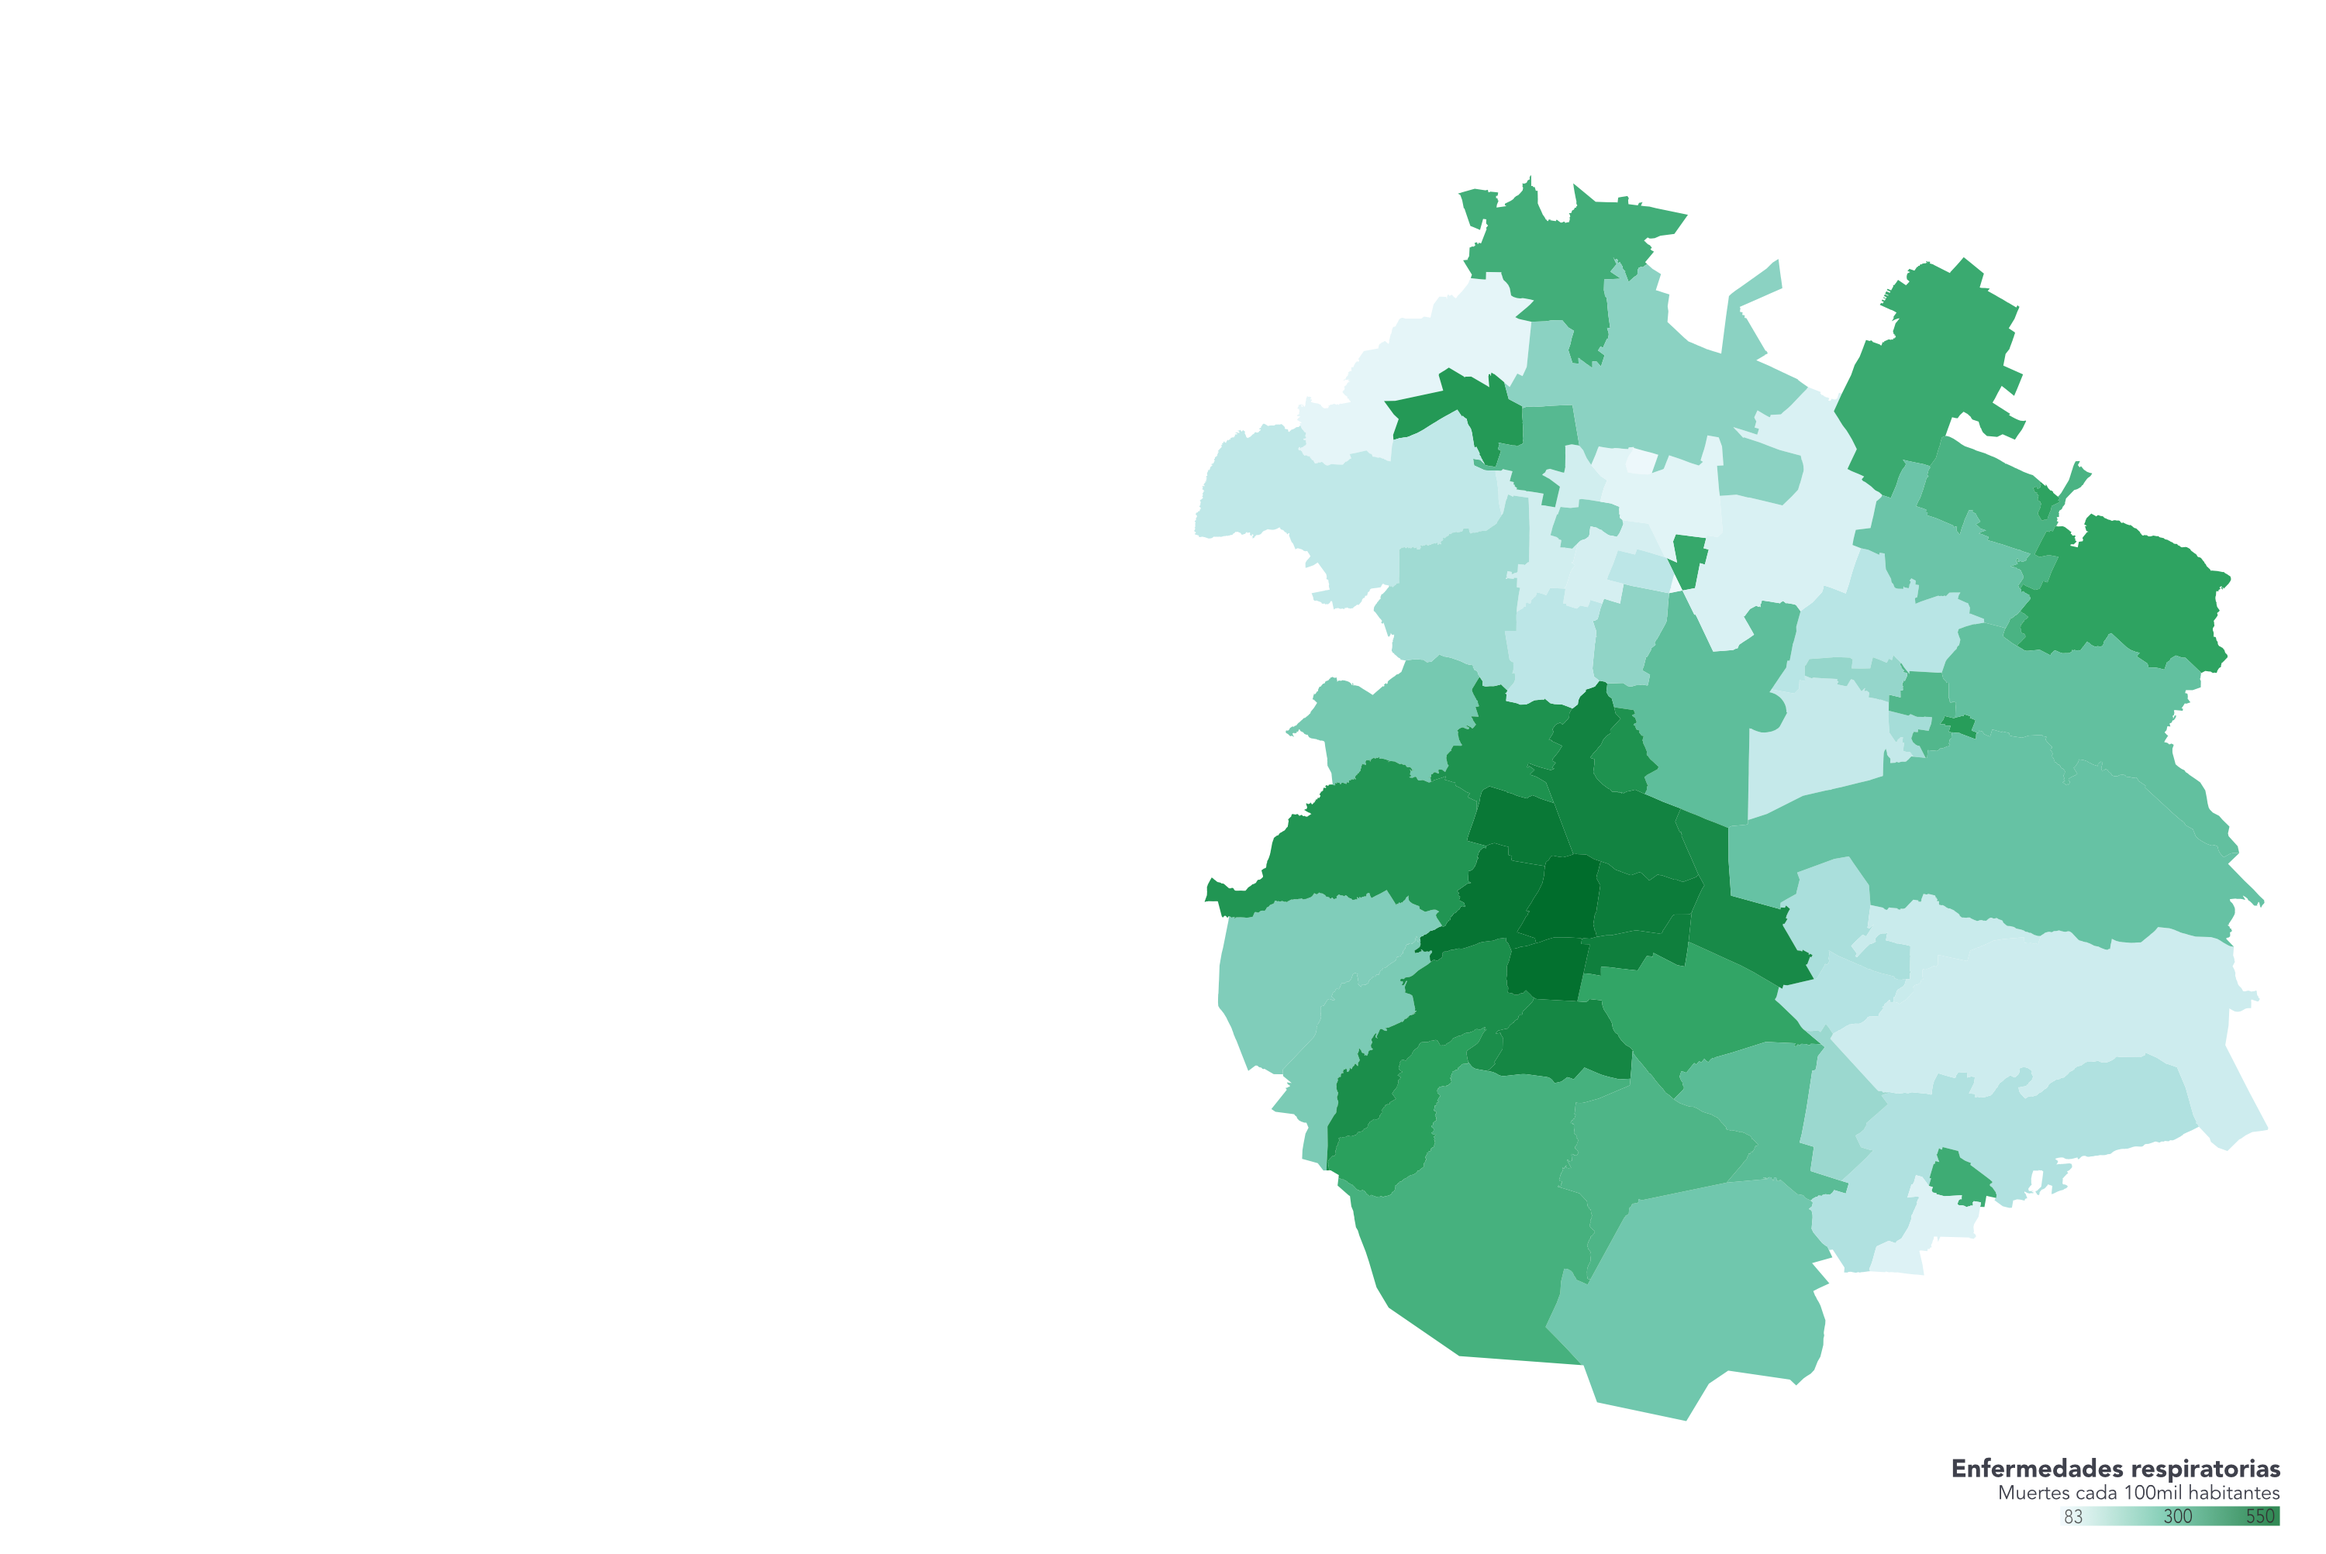
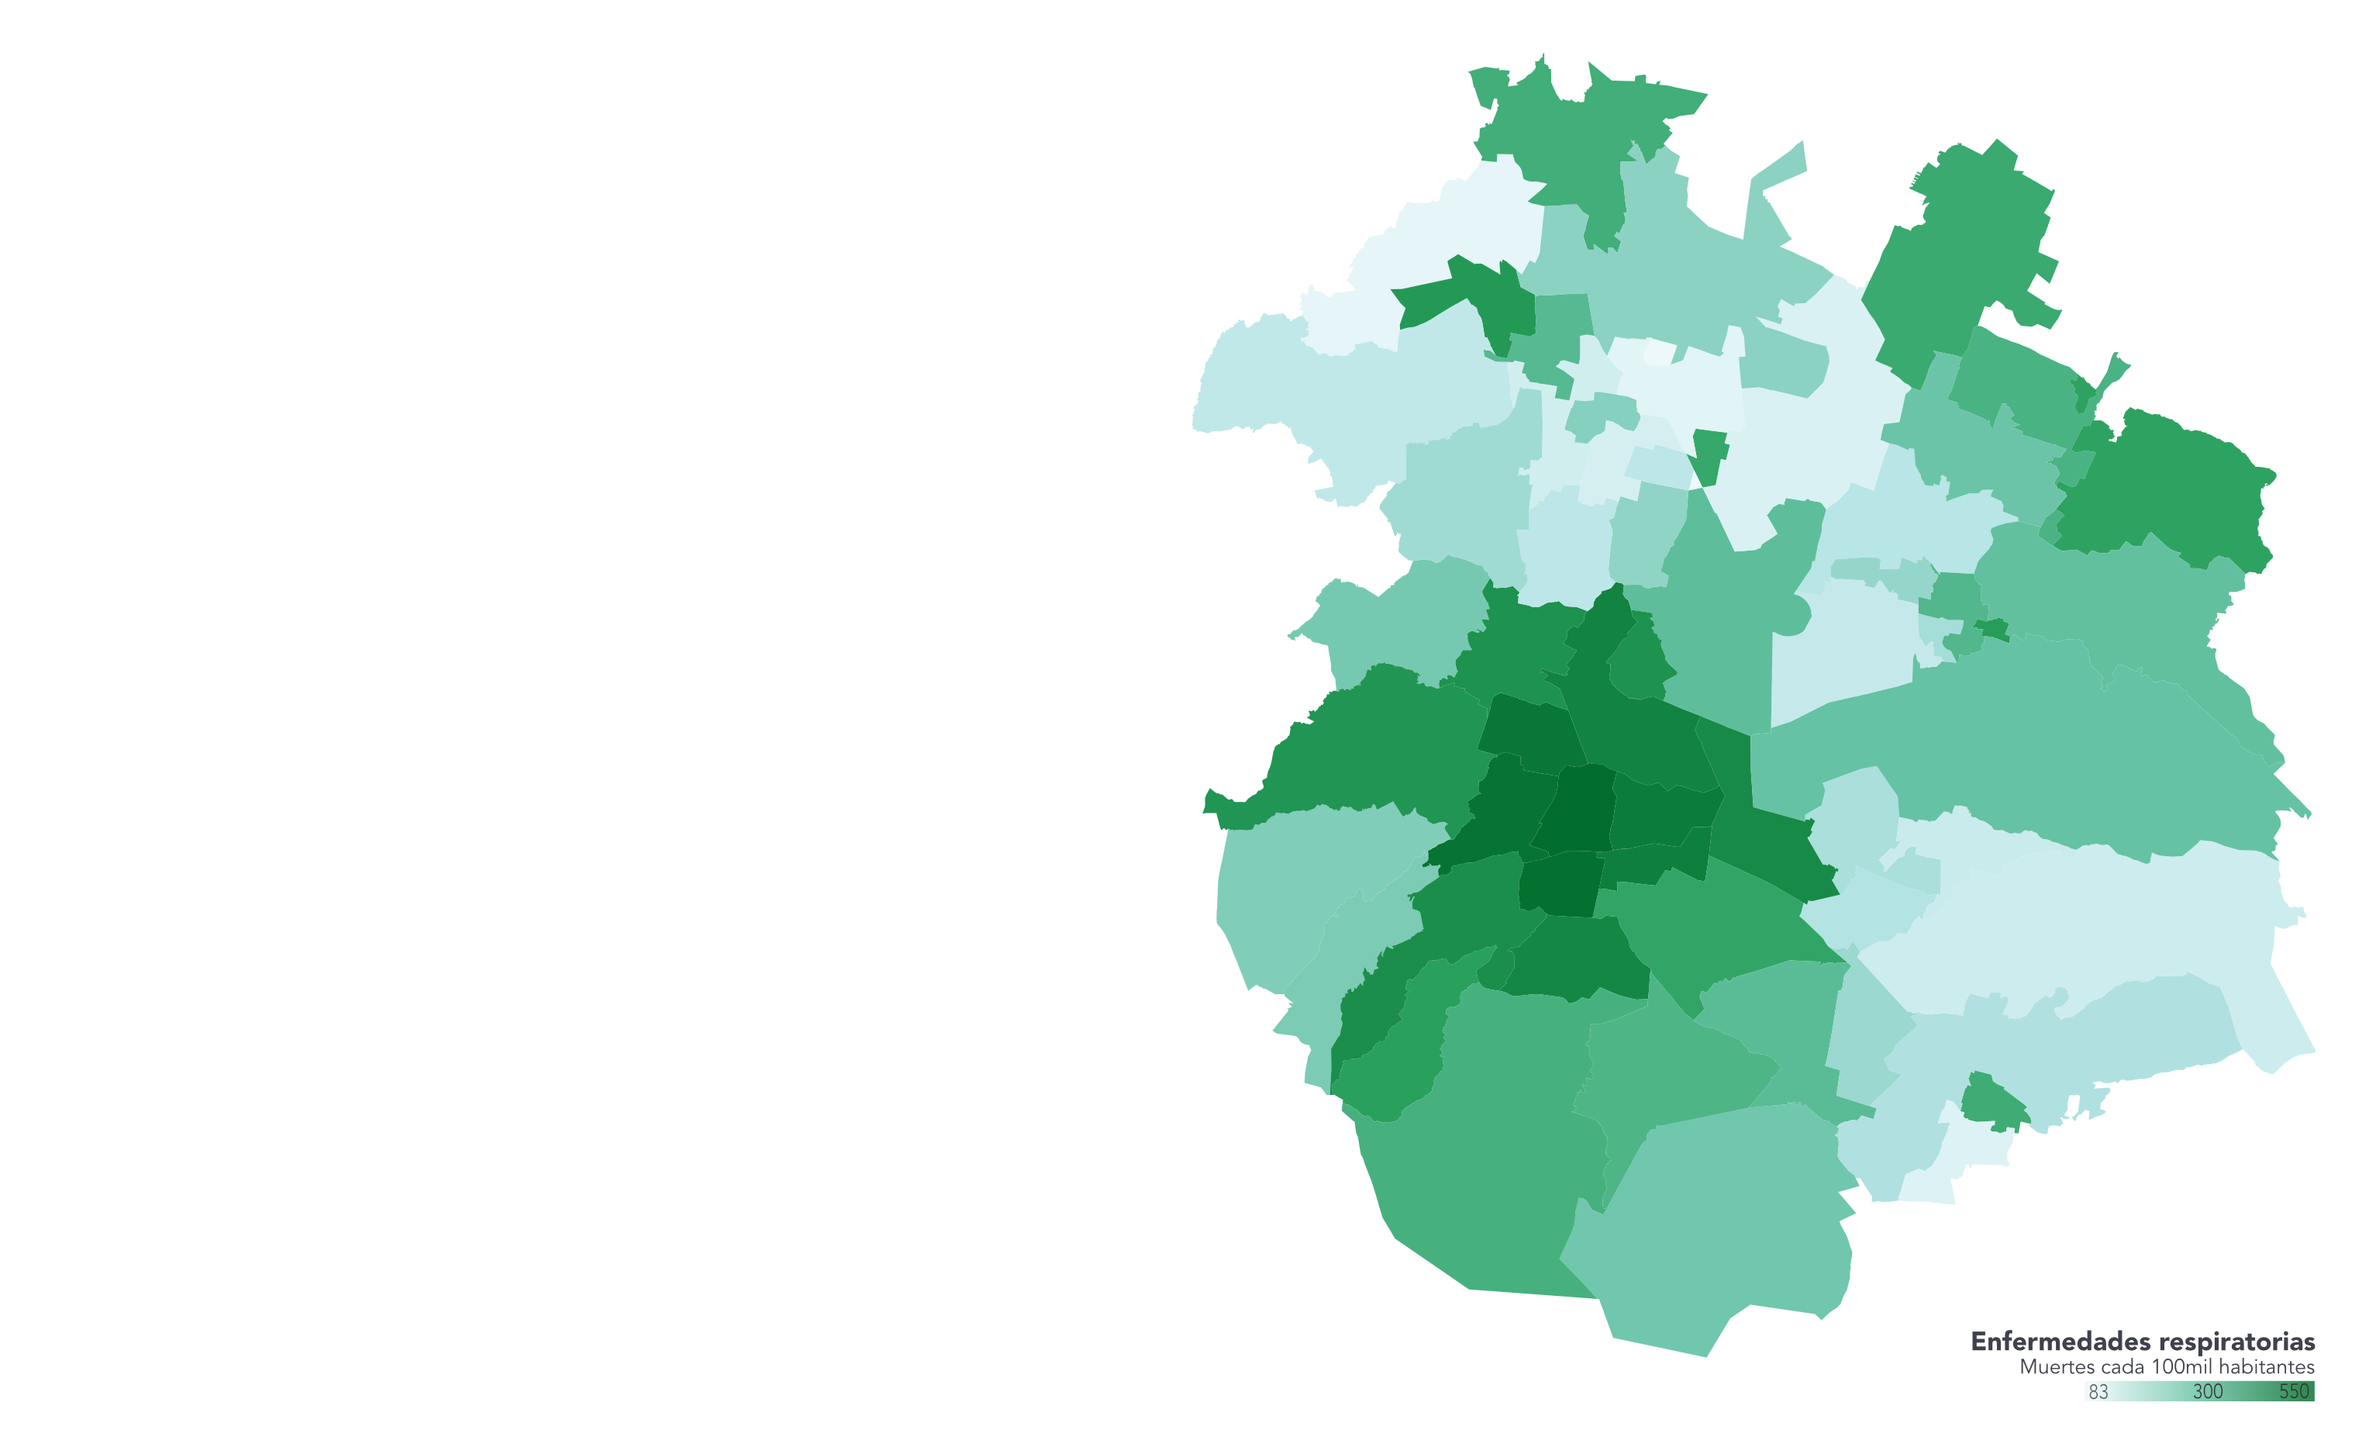
imagenes con proporción 16:9

diff --git a/index.html b/index.html
@@ -20,7 +20,7 @@
         background-position: right bottom;
         background-repeat: no-repeat;
         background-attachment: fixed;
-        background-size: cover;
+        background-size: 100% 100%;
     }
 
     h1 {
@@ -150,6 +150,7 @@
                 convergiendo en la región central de la cuenca y acumulándose con los contaminantes emitidos durante la noche.</p>
         </div>
 
+<!--        <div id="impacto-salud-1" class="step" data-step="resources/images/background_10.png">-->
         <div id="impacto-salud-1" class="step" data-step="resources/images/background_10.png">
             <h2>Impacto en la salud</h2>
             <p>Los altos niveles de contaminantes en el aire pueden causar problemas de salud temporales como tos, resequedad,
@@ -164,10 +165,10 @@
         <div id="ccd" class="step">
             <h3>CONACyT</h3>
             <h3>Coordinación de Ciencias de Datos</h3>
-            <h4>Daniel Bustillos @danielbustillos</h4>
-            <h4>Michelle Mandoki @michelle</h4>
-            <h4>Celine Jacquin @celine</h4>
-            <h4>Paulina Pradel @paulinapradel</h4>
+            <h4>Daniel Bustillos</h4>
+            <h4>Michelle Mandoki</h4>
+            <h4>Celine Jacquin</h4>
+            <h4>Paulina Pradel</h4>
         </div>
 
     </section>

diff --git a/resources/js/index.js b/resources/js/index.js
@@ -54,6 +54,7 @@ function handleStepEnter(response) {
         let img_url = response.element.getAttribute("data-step");
         document.body.style.backgroundImage = 'url(' +img_url+ '),url("resources/images/background_1.png")';
         document.body.style.backgroundBlendMode = "multiply";
+        document.body.style.backgroundSize = "100% 100%";
     }
 }
 
